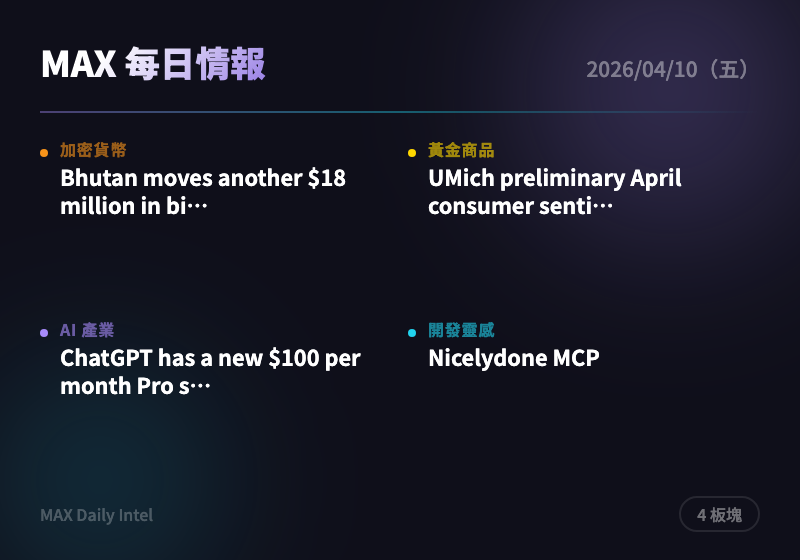
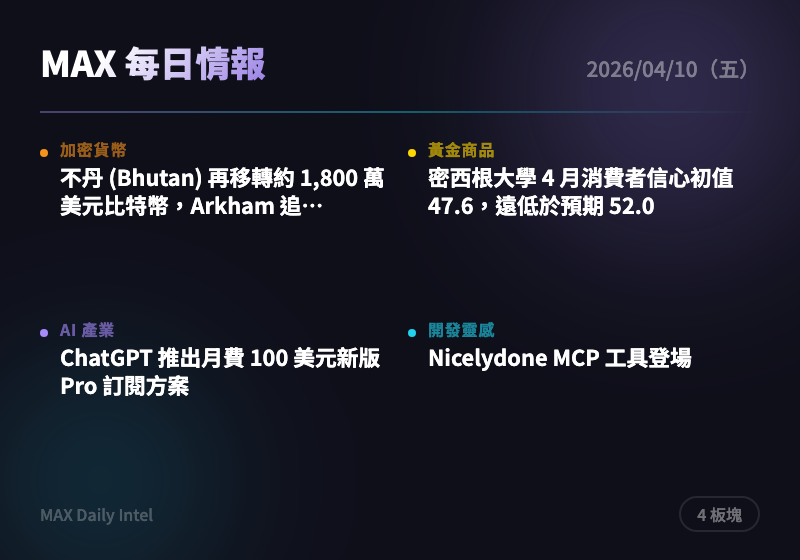
fix: rebuild 2026-04-10..13 PNG cards with zh titles

diff --git a/docs/cards/2026-04-12-card.html b/docs/cards/2026-04-12-card.html
@@ -23,10 +23,10 @@ body{width:400px;height:280px;font-family:'Noto Sans TC',-apple-system,sans-seri
 <div class="content">
 <div class="top-row"><span class="title">MAX 每日情報</span><span class="date">2026/04/12（日）</span></div>
 <div class="divider"></div>
-<div class="grid"><div class="cell"><div class="dot" style="background:#f7931a"></div><div><div class="label" style="color:#f7931a">加密貨幣</div><div class="headline">Bitcoin slips below $71,000 as Trump o…</div></div></div>
-<div class="cell"><div class="dot" style="background:#ffd700"></div><div><div class="label" style="color:#ffd700">黃金商品</div><div class="headline">US-Iran talks break down. Trump announ…</div></div></div>
-<div class="cell"><div class="dot" style="background:#4caf50"></div><div><div class="label" style="color:#4caf50">美股</div><div class="headline">Here are some bargain bank stocks head…</div></div></div>
-<div class="cell"><div class="dot" style="background:#a78bfa"></div><div><div class="label" style="color:#a78bfa">AI 產業</div><div class="headline">At the HumanX conference, everyone was…</div></div></div>
-<div class="cell"><div class="dot" style="background:#22d3ee"></div><div><div class="label" style="color:#22d3ee">開發靈感</div><div class="headline">Exploiting the most prominent AI agent…</div></div></div></div>
+<div class="grid"><div class="cell"><div class="dot" style="background:#f7931a"></div><div><div class="label" style="color:#f7931a">加密貨幣</div><div class="headline">Bitcoin（比特幣）跌破7.1萬美元，Trump（川普）下令美國加入伊朗…</div></div></div>
+<div class="cell"><div class="dot" style="background:#ffd700"></div><div><div class="label" style="color:#ffd700">黃金商品</div><div class="headline">美伊談判破裂，Trump宣布封鎖荷姆茲海峽</div></div></div>
+<div class="cell"><div class="dot" style="background:#4caf50"></div><div><div class="label" style="color:#4caf50">美股</div><div class="headline">財報季前夕，這幾檔銀行股現在是撿便宜的機會</div></div></div>
+<div class="cell"><div class="dot" style="background:#a78bfa"></div><div><div class="label" style="color:#a78bfa">AI 產業</div><div class="headline">HumanX大會上，所有人都在談論Claude（克勞德）</div></div></div>
+<div class="cell"><div class="dot" style="background:#22d3ee"></div><div><div class="label" style="color:#22d3ee">開發靈感</div><div class="headline">主流AI代理人基準測試的漏洞利用研究</div></div></div></div>
 <div class="bottom-row"><span class="url">MAX Daily Intel</span><span class="badge">5 板塊</span></div>
 </div></body></html>

diff --git a/docs/cards/2026-04-13-card.html b/docs/cards/2026-04-13-card.html
@@ -23,10 +23,10 @@ body{width:400px;height:280px;font-family:'Noto Sans TC',-apple-system,sans-seri
 <div class="content">
 <div class="top-row"><span class="title">MAX 每日情報</span><span class="date">2026/04/13（一）</span></div>
 <div class="divider"></div>
-<div class="grid"><div class="cell"><div class="dot" style="background:#f7931a"></div><div><div class="label" style="color:#f7931a">加密貨幣</div><div class="headline">Bitcoin slips below $71,000 as Trump o…</div></div></div>
-<div class="cell"><div class="dot" style="background:#ffd700"></div><div><div class="label" style="color:#ffd700">黃金商品</div><div class="headline">US-Iran talks break down. Trump announ…</div></div></div>
-<div class="cell"><div class="dot" style="background:#4caf50"></div><div><div class="label" style="color:#4caf50">美股</div><div class="headline">Here are some bargain bank stocks head…</div></div></div>
-<div class="cell"><div class="dot" style="background:#a78bfa"></div><div><div class="label" style="color:#a78bfa">AI 產業</div><div class="headline">The AI code wars are heating up</div></div></div>
-<div class="cell"><div class="dot" style="background:#22d3ee"></div><div><div class="label" style="color:#22d3ee">開發靈感</div><div class="headline">Exploiting the most prominent AI agent…</div></div></div></div>
+<div class="grid"><div class="cell"><div class="dot" style="background:#f7931a"></div><div><div class="label" style="color:#f7931a">加密貨幣</div><div class="headline">Bitcoin (比特幣) 跌破71,000美元，Trump下令美國協同伊朗…</div></div></div>
+<div class="cell"><div class="dot" style="background:#ffd700"></div><div><div class="label" style="color:#ffd700">黃金商品</div><div class="headline">美伊談判破裂，Trump宣布封鎖荷姆茲海峽</div></div></div>
+<div class="cell"><div class="dot" style="background:#4caf50"></div><div><div class="label" style="color:#4caf50">美股</div><div class="headline">財報季前這幾檔銀行股值得關注</div></div></div>
+<div class="cell"><div class="dot" style="background:#a78bfa"></div><div><div class="label" style="color:#a78bfa">AI 產業</div><div class="headline">AI程式碼大戰白熱化</div></div></div>
+<div class="cell"><div class="dot" style="background:#22d3ee"></div><div><div class="label" style="color:#22d3ee">開發靈感</div><div class="headline">利用主流AI代理基準測試的漏洞</div></div></div></div>
 <div class="bottom-row"><span class="url">MAX Daily Intel</span><span class="badge">5 板塊</span></div>
 </div></body></html>

diff --git a/docs/cards/2026-04-11-card.html b/docs/cards/2026-04-11-card.html
@@ -23,9 +23,9 @@ body{width:400px;height:280px;font-family:'Noto Sans TC',-apple-system,sans-seri
 <div class="content">
 <div class="top-row"><span class="title">MAX 每日情報</span><span class="date">2026/04/11（六）</span></div>
 <div class="divider"></div>
-<div class="grid"><div class="cell"><div class="dot" style="background:#f7931a"></div><div><div class="label" style="color:#f7931a">加密貨幣</div><div class="headline">Crypto bill negotiations enter critica…</div></div></div>
-<div class="cell"><div class="dot" style="background:#ffd700"></div><div><div class="label" style="color:#ffd700">黃金商品</div><div class="headline">US military ships enter Hormuz. Trump …</div></div></div>
-<div class="cell"><div class="dot" style="background:#4caf50"></div><div><div class="label" style="color:#4caf50">美股</div><div class="headline">HIVE Digital (HIVE) Betting Big on AI …</div></div></div>
-<div class="cell"><div class="dot" style="background:#a78bfa"></div><div><div class="label" style="color:#a78bfa">AI 產業</div><div class="headline">Anthropic temporarily banned OpenClaw’…</div></div></div></div>
+<div class="grid"><div class="cell"><div class="dot" style="background:#f7931a"></div><div><div class="label" style="color:#f7931a">加密貨幣</div><div class="headline">加密貨幣法案談判進入關鍵週，議員返國面臨穩定幣收益爭議壓力</div></div></div>
+<div class="cell"><div class="dot" style="background:#ffd700"></div><div><div class="label" style="color:#ffd700">黃金商品</div><div class="headline">美軍艦進入霍爾木茲海峽，Trump (川普) 稱正清除水雷</div></div></div>
+<div class="cell"><div class="dot" style="background:#4caf50"></div><div><div class="label" style="color:#4caf50">美股</div><div class="headline">HIVE Digital 大舉押注 AI 資料中心</div></div></div>
+<div class="cell"><div class="dot" style="background:#a78bfa"></div><div><div class="label" style="color:#a78bfa">AI 產業</div><div class="headline">Anthropic 暫時封禁 OpenClaw 創辦人的 Claude 使用權限</div></div></div></div>
 <div class="bottom-row"><span class="url">MAX Daily Intel</span><span class="badge">4 板塊</span></div>
 </div></body></html>

diff --git a/docs/cards/2026-04-10-card.html b/docs/cards/2026-04-10-card.html
@@ -23,9 +23,9 @@ body{width:400px;height:280px;font-family:'Noto Sans TC',-apple-system,sans-seri
 <div class="content">
 <div class="top-row"><span class="title">MAX 每日情報</span><span class="date">2026/04/10（五）</span></div>
 <div class="divider"></div>
-<div class="grid"><div class="cell"><div class="dot" style="background:#f7931a"></div><div><div class="label" style="color:#f7931a">加密貨幣</div><div class="headline">Bhutan moves another $18 million in bi…</div></div></div>
-<div class="cell"><div class="dot" style="background:#ffd700"></div><div><div class="label" style="color:#ffd700">黃金商品</div><div class="headline">UMich preliminary April consumer senti…</div></div></div>
-<div class="cell"><div class="dot" style="background:#a78bfa"></div><div><div class="label" style="color:#a78bfa">AI 產業</div><div class="headline">ChatGPT has a new $100 per month Pro s…</div></div></div>
-<div class="cell"><div class="dot" style="background:#22d3ee"></div><div><div class="label" style="color:#22d3ee">開發靈感</div><div class="headline">Nicelydone MCP</div></div></div></div>
+<div class="grid"><div class="cell"><div class="dot" style="background:#f7931a"></div><div><div class="label" style="color:#f7931a">加密貨幣</div><div class="headline">不丹 (Bhutan) 再移轉約 1,800 萬美元比特幣，Arkham 追…</div></div></div>
+<div class="cell"><div class="dot" style="background:#ffd700"></div><div><div class="label" style="color:#ffd700">黃金商品</div><div class="headline">密西根大學 4 月消費者信心初值 47.6，遠低於預期 52.0</div></div></div>
+<div class="cell"><div class="dot" style="background:#a78bfa"></div><div><div class="label" style="color:#a78bfa">AI 產業</div><div class="headline">ChatGPT 推出月費 100 美元新版 Pro 訂閱方案</div></div></div>
+<div class="cell"><div class="dot" style="background:#22d3ee"></div><div><div class="label" style="color:#22d3ee">開發靈感</div><div class="headline">Nicelydone MCP 工具登場</div></div></div></div>
 <div class="bottom-row"><span class="url">MAX Daily Intel</span><span class="badge">4 板塊</span></div>
 </div></body></html>
